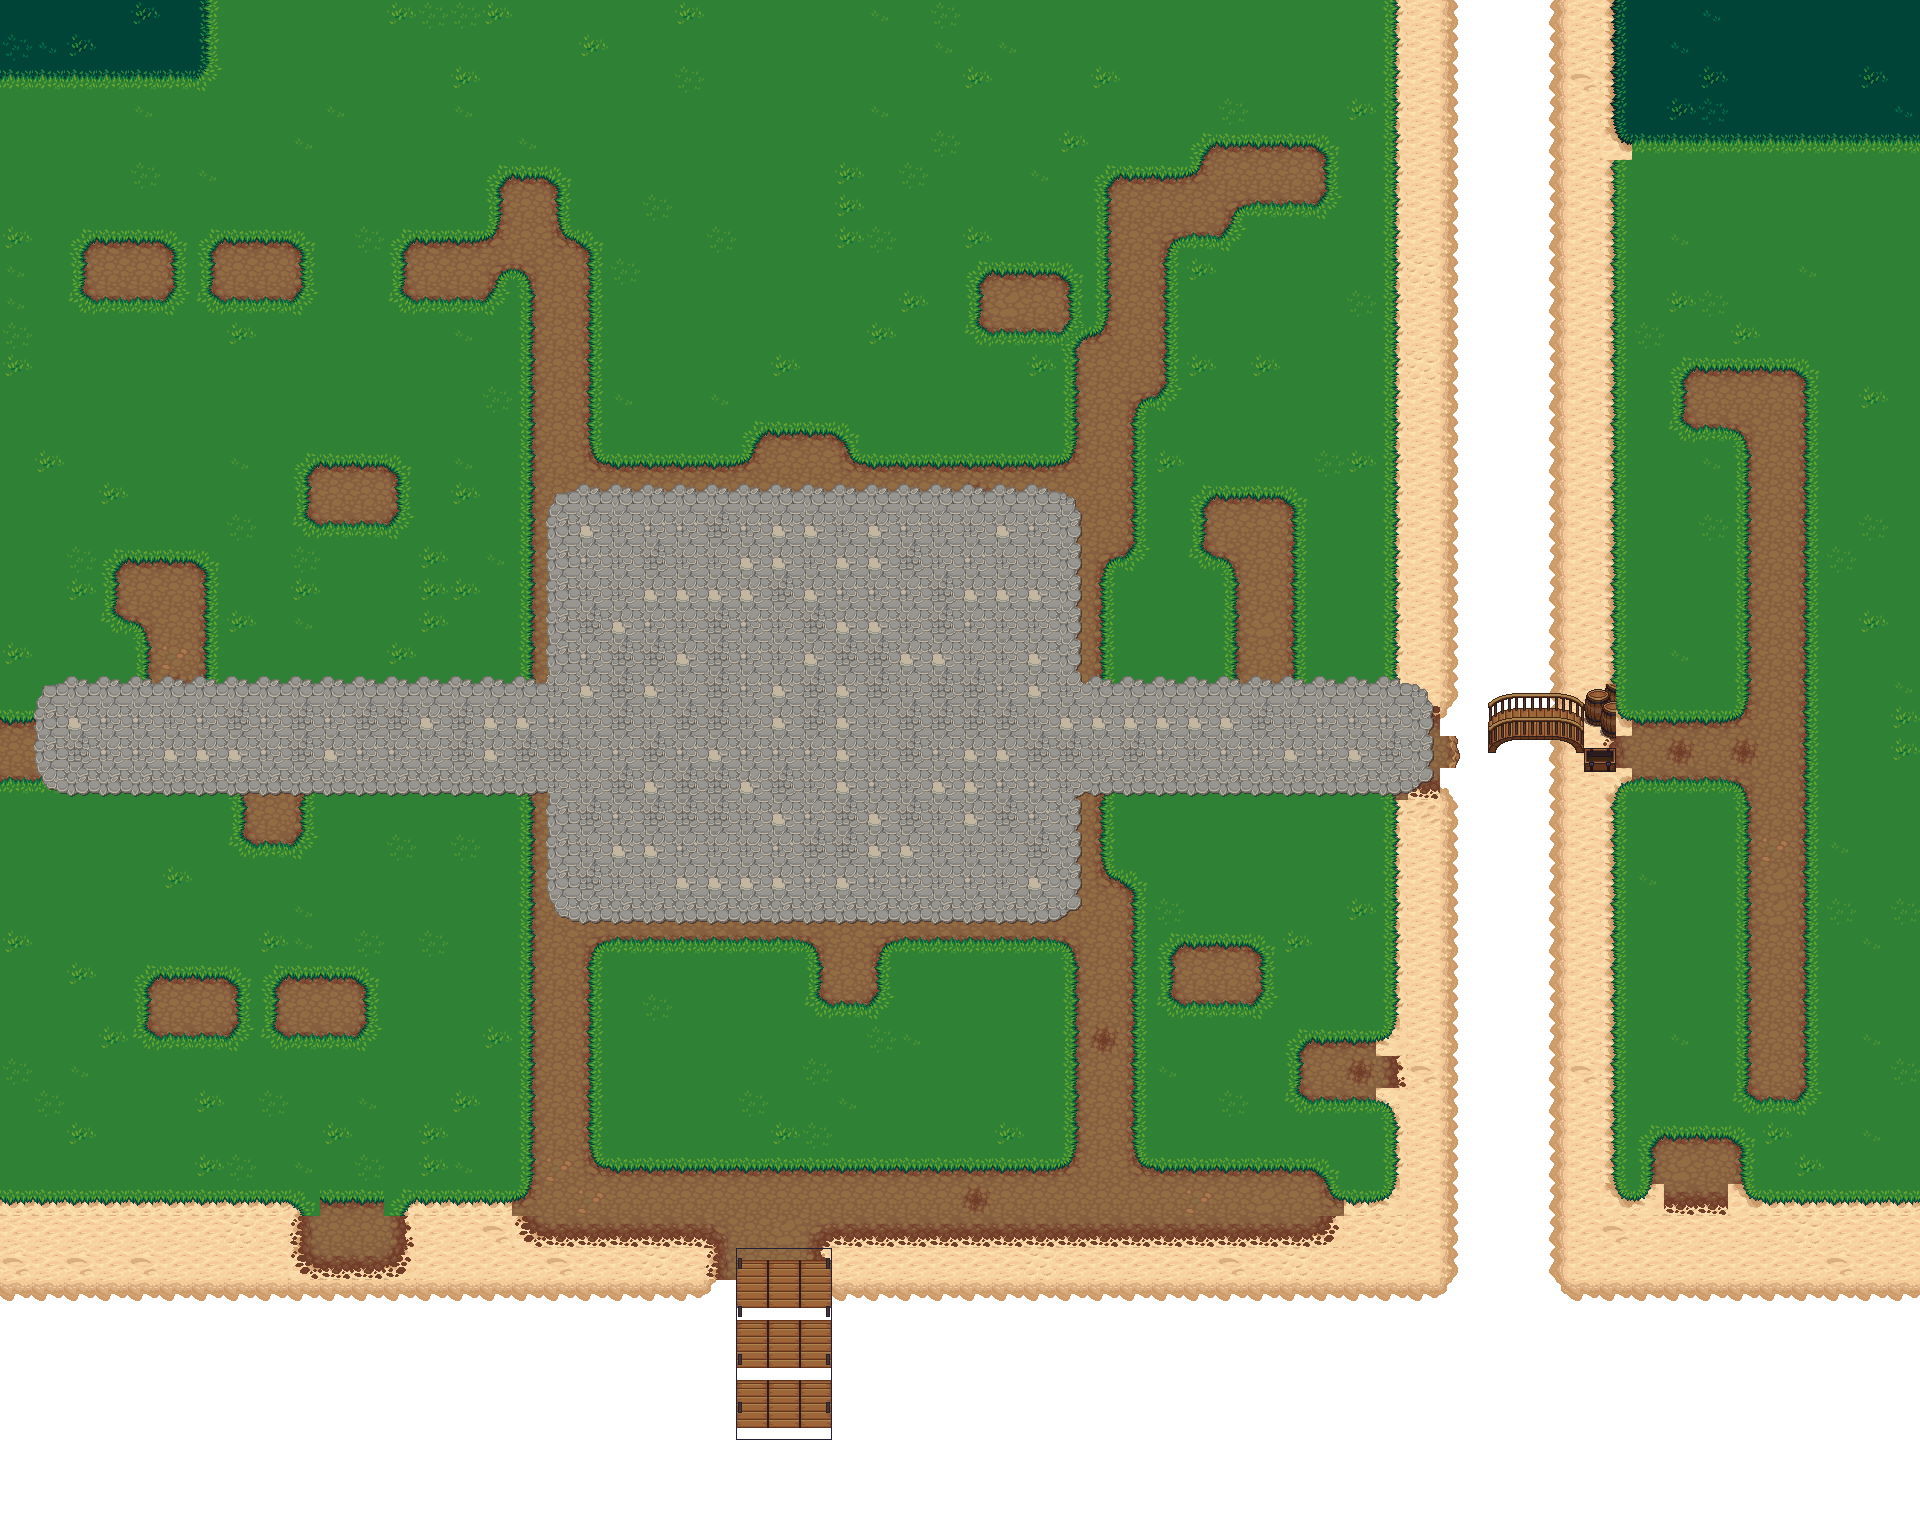
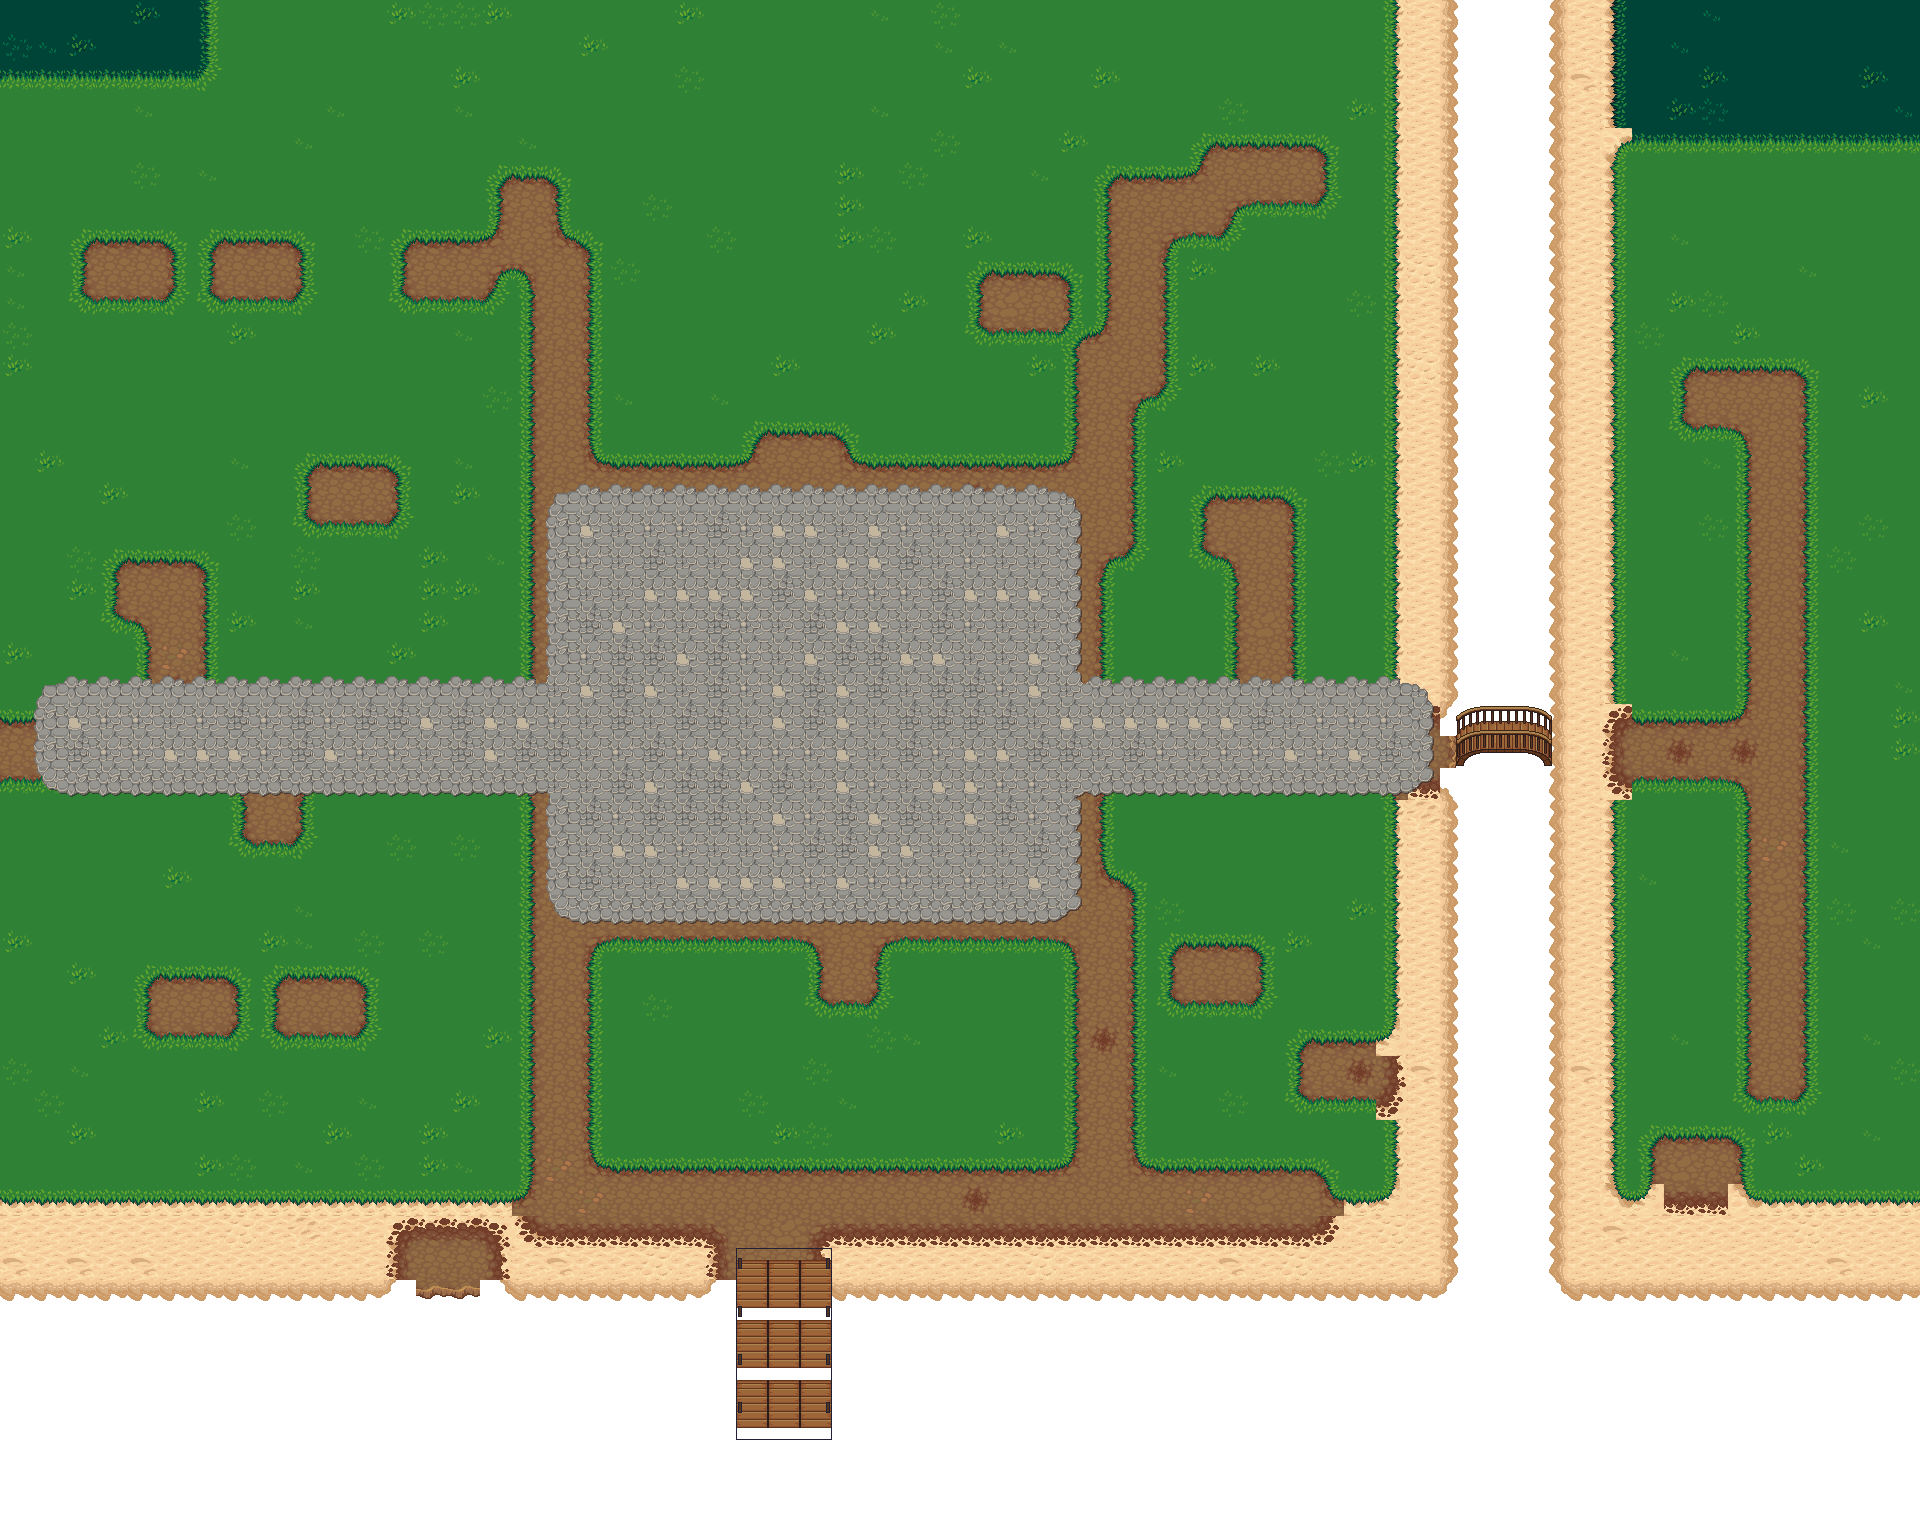
Sync from private repo

Changed region(s): [[0.125, 0.7812, 0.2812, 0.8438], [0.75, 0.4375, 0.875, 0.5312], [0.7188, 0.6875, 0.75, 0.7188]]

diff --git a/client/tests/e2e/town.spec.js b/client/tests/e2e/town.spec.js
@@ -102,4 +102,48 @@ test.describe('Riverhold', () => {
         const y = (await where(page)).y;
         expect(y + 23).toBeGreaterThan(14 * 32);     // stopped at the inn's front wall
     });
+
+    test('wandering townsfolk walk a leg at a time, not flickering between directions', async ({ page }) => {
+        test.setTimeout(150000);
+        await enterWorld(page);
+        await page.evaluate(() => window.__PHASER_GAME.scene.getScene('GameScene').enterPlace({ name: 'Riverhold', x: 6320, y: 11116 }));
+        await page.waitForFunction(() => window.__PHASER_GAME.scene.getScene('GameScene').town?.folk.length > 15, null, { timeout: 120000 });
+        // Watch every wanderer's animation for ten seconds: a switch straight back (left, up, left...) is a flicker
+        const flips = await page.evaluate(() => new Promise(resolve => {
+            const gs = window.__PHASER_GAME.scene.getScene('GameScene');
+            const seen = new Map();
+            let frames = 0;
+            const tick = () => {
+                for (const f of gs.town.folk.filter(f => f.plan.wander)) {
+                    const key = f.sprite.getActiveSprite()?.anims?.currentAnim?.key;
+                    const h = seen.get(f.plan.id) || { keys: [], flips: 0 };
+                    const k = h.keys;
+                    if (key !== k[k.length - 1]) {
+                        if (k.length >= 2 && key === k[k.length - 2] && frames - h.at < 6) h.flips++;
+                        k.push(key);
+                        h.at = frames;
+                    }
+                    seen.set(f.plan.id, h);
+                }
+                if (++frames < 600) requestAnimationFrame(tick);
+                else resolve(Object.fromEntries([...seen].map(([id, h]) => [id, h.flips])));
+            };
+            requestAnimationFrame(tick);
+        }));
+        for (const n of Object.values(flips)) expect(n).toBeLessThanOrEqual(2);
+    });
+
+    test('the footbridge takes you over the creek to the hermit and the fisherwoman', async ({ page }) => {
+        test.setTimeout(90000);
+        await enterWorld(page);
+        await page.evaluate(() => window.__PHASER_GAME.scene.getScene('GameScene').enterPlace({ name: 'Riverhold', x: 6320, y: 11116 }));
+        await expect.poll(() => where(page).then(w => w.town), { timeout: 15000 }).toBe('riverhold');
+        await page.evaluate(() => {
+            const me = window.__PHASER_GAME.scene.getScene('GameScene').localPlayer.sprite;
+            me.setPosition(42 * 32, 23 * 32 - 23);   // on the high street, west of the creek
+            me.body.reset(me.x, me.y);
+        });
+        await hold(page, 'right', 2600);
+        expect((await where(page)).x).toBeGreaterThan(51 * 32);   // over on the far bank
+    });
 });

diff --git a/client/src/world/Town.js b/client/src/world/Town.js
@@ -197,17 +197,26 @@ export class Town {
             s.stopAnimation();
             return;
         }
-        // Walk one axis at a time, like townsfolk in the old games; around whatever's in the way
-        const horizontal = Math.abs(dx) > Math.abs(dy) ? !f.stuckX : !!f.stuckY;
-        const nx = horizontal ? s.x + Math.sign(dx) * stepLen : s.x;
-        const ny = horizontal ? s.y : s.y + Math.sign(dy) * stepLen;
-        if (this.boxBlocked(nx - 9, ny + FEET - 5, 18, 10)) {
-            if (horizontal) f.stuckX = true; else f.stuckY = true;
-            if (++f.stuck > 30) { f.target = null; f.wait = 800; f.stuckX = f.stuckY = false; s.stopAnimation(); }
-            return;
+        // Walk one leg at a time, like townsfolk in the old games: the longer leg
+        // first, turning only when it's done or something's in the way
+        if (!f.axis || (f.axis === 'x' ? Math.abs(dx) : Math.abs(dy)) < stepLen) f.axis = Math.abs(dx) > Math.abs(dy) ? 'x' : 'y';
+        let horizontal = f.axis === 'x';
+        const blocked = (h) => this.boxBlocked(h ? s.x + Math.sign(dx) * stepLen - 9 : s.x - 9,
+            (h ? s.y : s.y + Math.sign(dy) * stepLen) + FEET - 5, 18, 10);
+        if (blocked(horizontal)) {
+            const other = !horizontal;
+            if ((other ? Math.abs(dx) : Math.abs(dy)) < stepLen || blocked(other) || ++f.stuck > 120) {
+                // Nowhere to go from here: stop and choose somewhere else
+                f.target = null;
+                f.axis = null;
+                f.wait = 800;
+                s.stopAnimation();
+                return;
+            }
+            horizontal = other;
+            f.axis = other ? 'x' : 'y';
         }
-        f.stuckX = f.stuckY = false;
-        s.setPosition(nx, ny);
+        s.setPosition(horizontal ? s.x + Math.sign(dx) * stepLen : s.x, horizontal ? s.y : s.y + Math.sign(dy) * stepLen);
         s.playAnimation('walk', horizontal ? (dx < 0 ? 'left' : 'right') : (dy < 0 ? 'up' : 'down'));
     }
 
